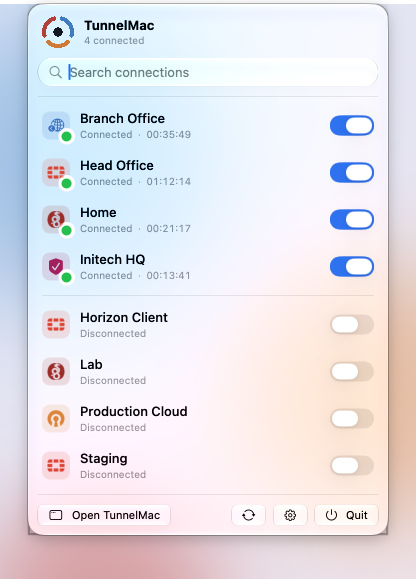
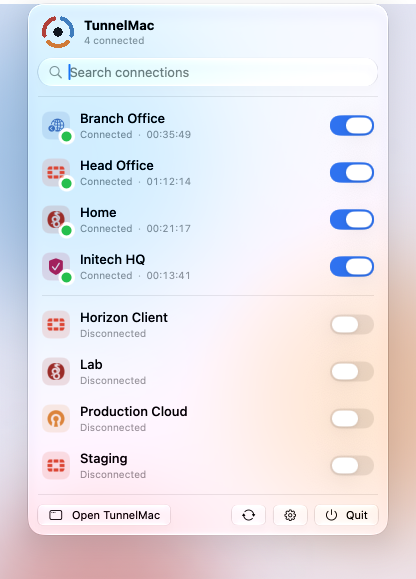
Menu panel: glass with its own shadow, no window outline
The menu panel's window shadow drew a dark outline from the window's rectangle around
the glass (a square border at the corners while the panel is key). Native menu bar
panels have none.

- MenuBarPanelController (macOS 26+): no window shadow; the glass casts its own. The
  window has a clear margin around the glass (glassMargin) so that shadow is not cut
  square. A click on the margin closes the menu, as a click outside does.
- menuFrame is the menu itself on screen; the integration test and the showcase use it.
- README images re-captured.

diff --git a/Sources/VPNGUI/MenuBarStatusItem.swift b/Sources/VPNGUI/MenuBarStatusItem.swift
@@ -215,6 +215,14 @@ final class MenuBarPanel: NSPanel {
     override func cancelOperation(_ sender: Any?) { onCancel?() }
 }
 
+/// The clear margin around the menu's glass: a click on it (the glass's shadow) closes the
+/// menu, as a click outside it does.
+final class GlassMarginView: NSView {
+    var onClick: (() -> Void)?
+    override func acceptsFirstMouse(for event: NSEvent?) -> Bool { true }
+    override func mouseDown(with event: NSEvent) { onClick?() }
+}
+
 /// The menu panel: MenuBarView on the system's Liquid Glass (NSGlassEffectView) on macOS 26+,
 /// on the menu material with rounded corners before, sized to the content and placed by
 /// MenuPanelPlacement.
@@ -231,6 +239,17 @@ final class MenuBarPanelController: NSObject, MenuPanelPresenter, NSWindowDelega
     private var keyMonitor: Any?
     var onClose: (() -> Void)?
     var isOpen: Bool { panel.isVisible }
+    /// Clear room around the glass for its own shadow (macOS 26+), larger below where it falls.
+    static var glassMargin: NSEdgeInsets {
+        if #available(macOS 26, *) { return NSEdgeInsets(top: 28, left: 32, bottom: 44, right: 32) }
+        return NSEdgeInsets()
+    }
+    /// Where the menu itself is on screen: the panel without its shadow margin.
+    var menuFrame: NSRect {
+        let margin = Self.glassMargin
+        return NSRect(x: panel.frame.minX + margin.left, y: panel.frame.minY + margin.bottom,
+                      width: panel.frame.width - margin.left - margin.right, height: panel.frame.height - margin.top - margin.bottom)
+    }
 
     init(menuBar: MenuBarCoordinator) {
         self.menuBar = menuBar
@@ -258,11 +277,17 @@ final class MenuBarPanelController: NSObject, MenuPanelPresenter, NSWindowDelega
             glass.style = .regular
             glass.cornerRadius = 16
             glass.contentView = hosting
-            // In a plain container: as the window's own content view, the glass fills the whole
-            // frame and ignores cornerRadius, leaving dark square corners (and their shadow).
-            let container = NSView(frame: NSRect(origin: .zero, size: size))
+            // No window shadow: on glass the window server draws it from the window's rectangle,
+            // a dark outline that native panels do not have. The glass casts its own shadow, and
+            // the clear margin around it (glassMargin) keeps that shadow from being cut square.
+            panel.hasShadow = false
+            let margin = Self.glassMargin
+            let container = GlassMarginView(frame: NSRect(x: 0, y: 0, width: size.width + margin.left + margin.right,
+                                                          height: size.height + margin.top + margin.bottom))
+            glass.frame = NSRect(x: margin.left, y: margin.bottom, width: size.width, height: size.height)
             glass.autoresizingMask = [.width, .height]
             container.addSubview(glass)
+            container.onClick = { [weak self] in self?.close() }
             panel.contentView = container
         } else {
             // The menu material, as the system popover had.
@@ -350,7 +375,10 @@ final class MenuBarPanelController: NSObject, MenuPanelPresenter, NSWindowDelega
         guard let anchor else { return }
         hosting.layoutSubtreeIfNeeded()
         let height = hosting.fittingSize.height
-        let frame = MenuPanelPlacement.frame(size: NSSize(width: Self.width, height: height), anchor: anchor)
+        let menu = MenuPanelPlacement.frame(size: NSSize(width: Self.width, height: height), anchor: anchor)
+        let margin = Self.glassMargin
+        let frame = NSRect(x: menu.minX - margin.left, y: menu.minY - margin.bottom,
+                           width: menu.width + margin.left + margin.right, height: menu.height + margin.top + margin.bottom)
         guard frame != panel.frame else { return }
         panel.setFrame(frame, display: panel.isVisible)
         panel.invalidateShadow()

diff --git a/IntegrationRunner/Showcase.swift b/IntegrationRunner/Showcase.swift
@@ -375,8 +375,8 @@ struct ShowcaseTour {
             await activate(window)
             demo.menuBar.showMenu()
             await pause(1.5)
-            if let panel = (demo.menuBar.menuPresenter as? MenuBarPanelController)?.panel {
-                await captureGlass(panel, key: panel, dark: dark, "menubar-\(suffix)")
+            if let controller = demo.menuBar.menuPresenter as? MenuBarPanelController {
+                await captureGlass(controller.panel, frame: controller.menuFrame, key: controller.panel, dark: dark, "menubar-\(suffix)")
             }
             demo.menuBar.closeMenu()
             await pause(0.5)
@@ -386,7 +386,7 @@ struct ShowcaseTour {
             demo.connect("Production Cloud")
             await pause(0.9)
             if let panel = (demo.menuBar.progressPresenter as? ConnectionProgressPanelController)?.panel, panel.isVisible {
-                await captureGlass(panel, key: nil, dark: dark, "progress-\(suffix)")
+                await captureGlass(panel, frame: panel.frame, key: nil, dark: dark, "progress-\(suffix)")
             }
             demo.model.manager.disconnect(demo.connection("Production Cloud").id)
             await pause(1.5)
@@ -561,14 +561,14 @@ struct ShowcaseTour {
     /// panel and its shadow, below the menu bar. Compositing [panel, backdrop] from the window
     /// list already shows the backdrop through the glass (checked against a screen capture of
     /// the same area: identical), and it reads only this app's windows, so it is the one used.
-    private func captureGlass(_ panel: NSWindow, key: NSWindow?, dark: Bool, _ name: String) async {
-        let backdrop = ShowcaseBackdrop.window(around: panel.frame, dark: dark)
+    /// `frame` is the panel's visible part (the menu panel has a clear margin for the glass's shadow).
+    private func captureGlass(_ panel: NSWindow, frame: NSRect, key: NSWindow?, dark: Bool, _ name: String) async {
+        let backdrop = ShowcaseBackdrop.window(around: frame, dark: dark)
         backdrop.order(.below, relativeTo: panel.windowNumber)
         await pause(0.8)
         await ensureActive(key, name)
         // Shadow room on the sides and below; only 4 pt above, so the menu bar stays out.
-        let area = NSRect(x: panel.frame.minX - 28, y: panel.frame.minY - 44,
-                          width: panel.frame.width + 56, height: panel.frame.height + 48)
+        let area = NSRect(x: frame.minX - 28, y: frame.minY - 44, width: frame.width + 56, height: frame.height + 48)
         Self.write([panel, backdrop], area: area, to: directory.appendingPathComponent("\(name).png"))
         print("Showcase: \(name).png")
         backdrop.orderOut(nil)

diff --git a/IntegrationRunner/MenuBarTests.swift b/IntegrationRunner/MenuBarTests.swift
@@ -395,12 +395,12 @@ enum MenuBarTests {
             controller.open(anchor: MenuAnchor(button: NSRect(x: -28700, y: -29125, width: 30, height: 24), visibleFrame: visible))
             _ = TestSupport.spin(0.3) { false }
             let panel = controller.panel
-            try require(panel.isVisible && controller.isOpen && visible.contains(panel.frame) && panel.frame.width == 360,
-                        "Painel não abriu dentro da tela fictícia: \(panel.frame)")
+            try require(panel.isVisible && controller.isOpen && visible.contains(controller.menuFrame) && controller.menuFrame.width == 360,
+                        "Painel não abriu dentro da tela fictícia: \(controller.menuFrame)")
             try require(panel.canBecomeKey && !panel.canBecomeMain && panel.level == .popUpMenu
                         && panel.styleMask.contains(.nonactivatingPanel) && !panel.hidesOnDeactivate && panel.backgroundColor == .clear,
                         "Configuração do painel")
-            try require(panel.frame.height > 100, "Altura do conteúdo não aplicada: \(panel.frame.height)")
+            try require(controller.menuFrame.height > 100, "Altura do conteúdo não aplicada: \(controller.menuFrame.height)")
             controller.windowDidResignKey(Notification(name: NSWindow.didResignKeyNotification))
             try require(!panel.isVisible && closes == 1, "Perder o foco não fechou o painel")
             controller.close()
